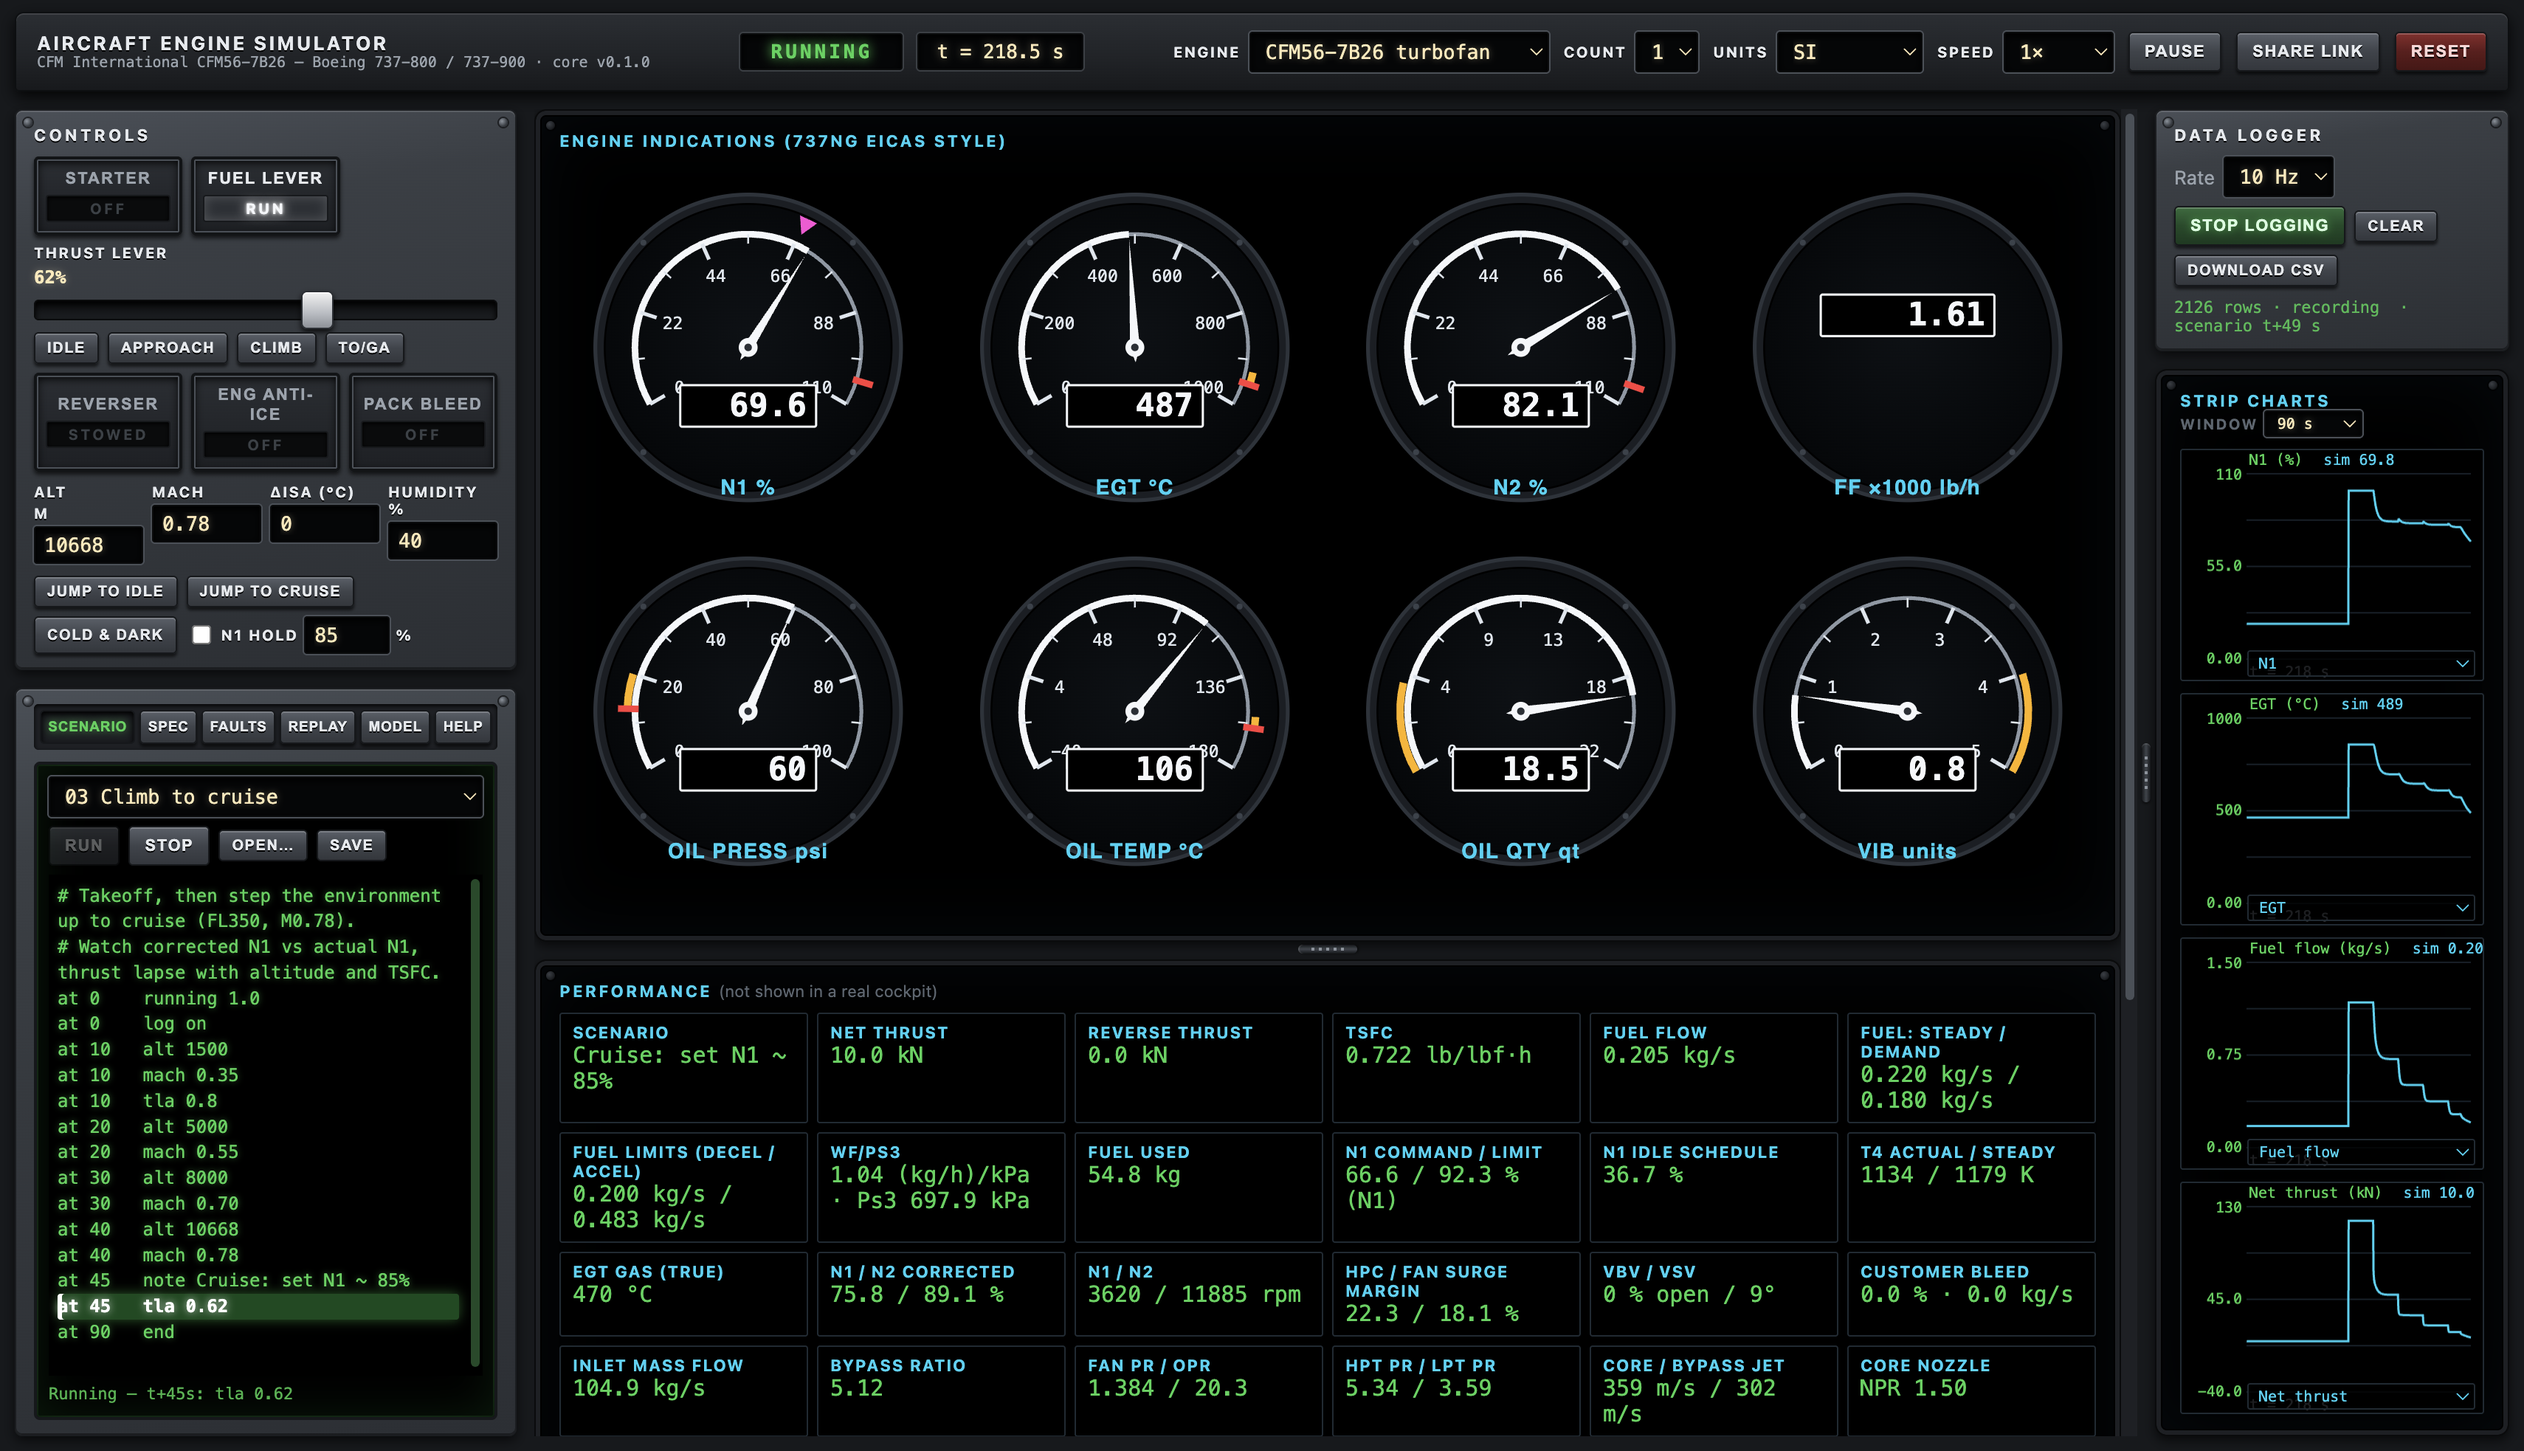
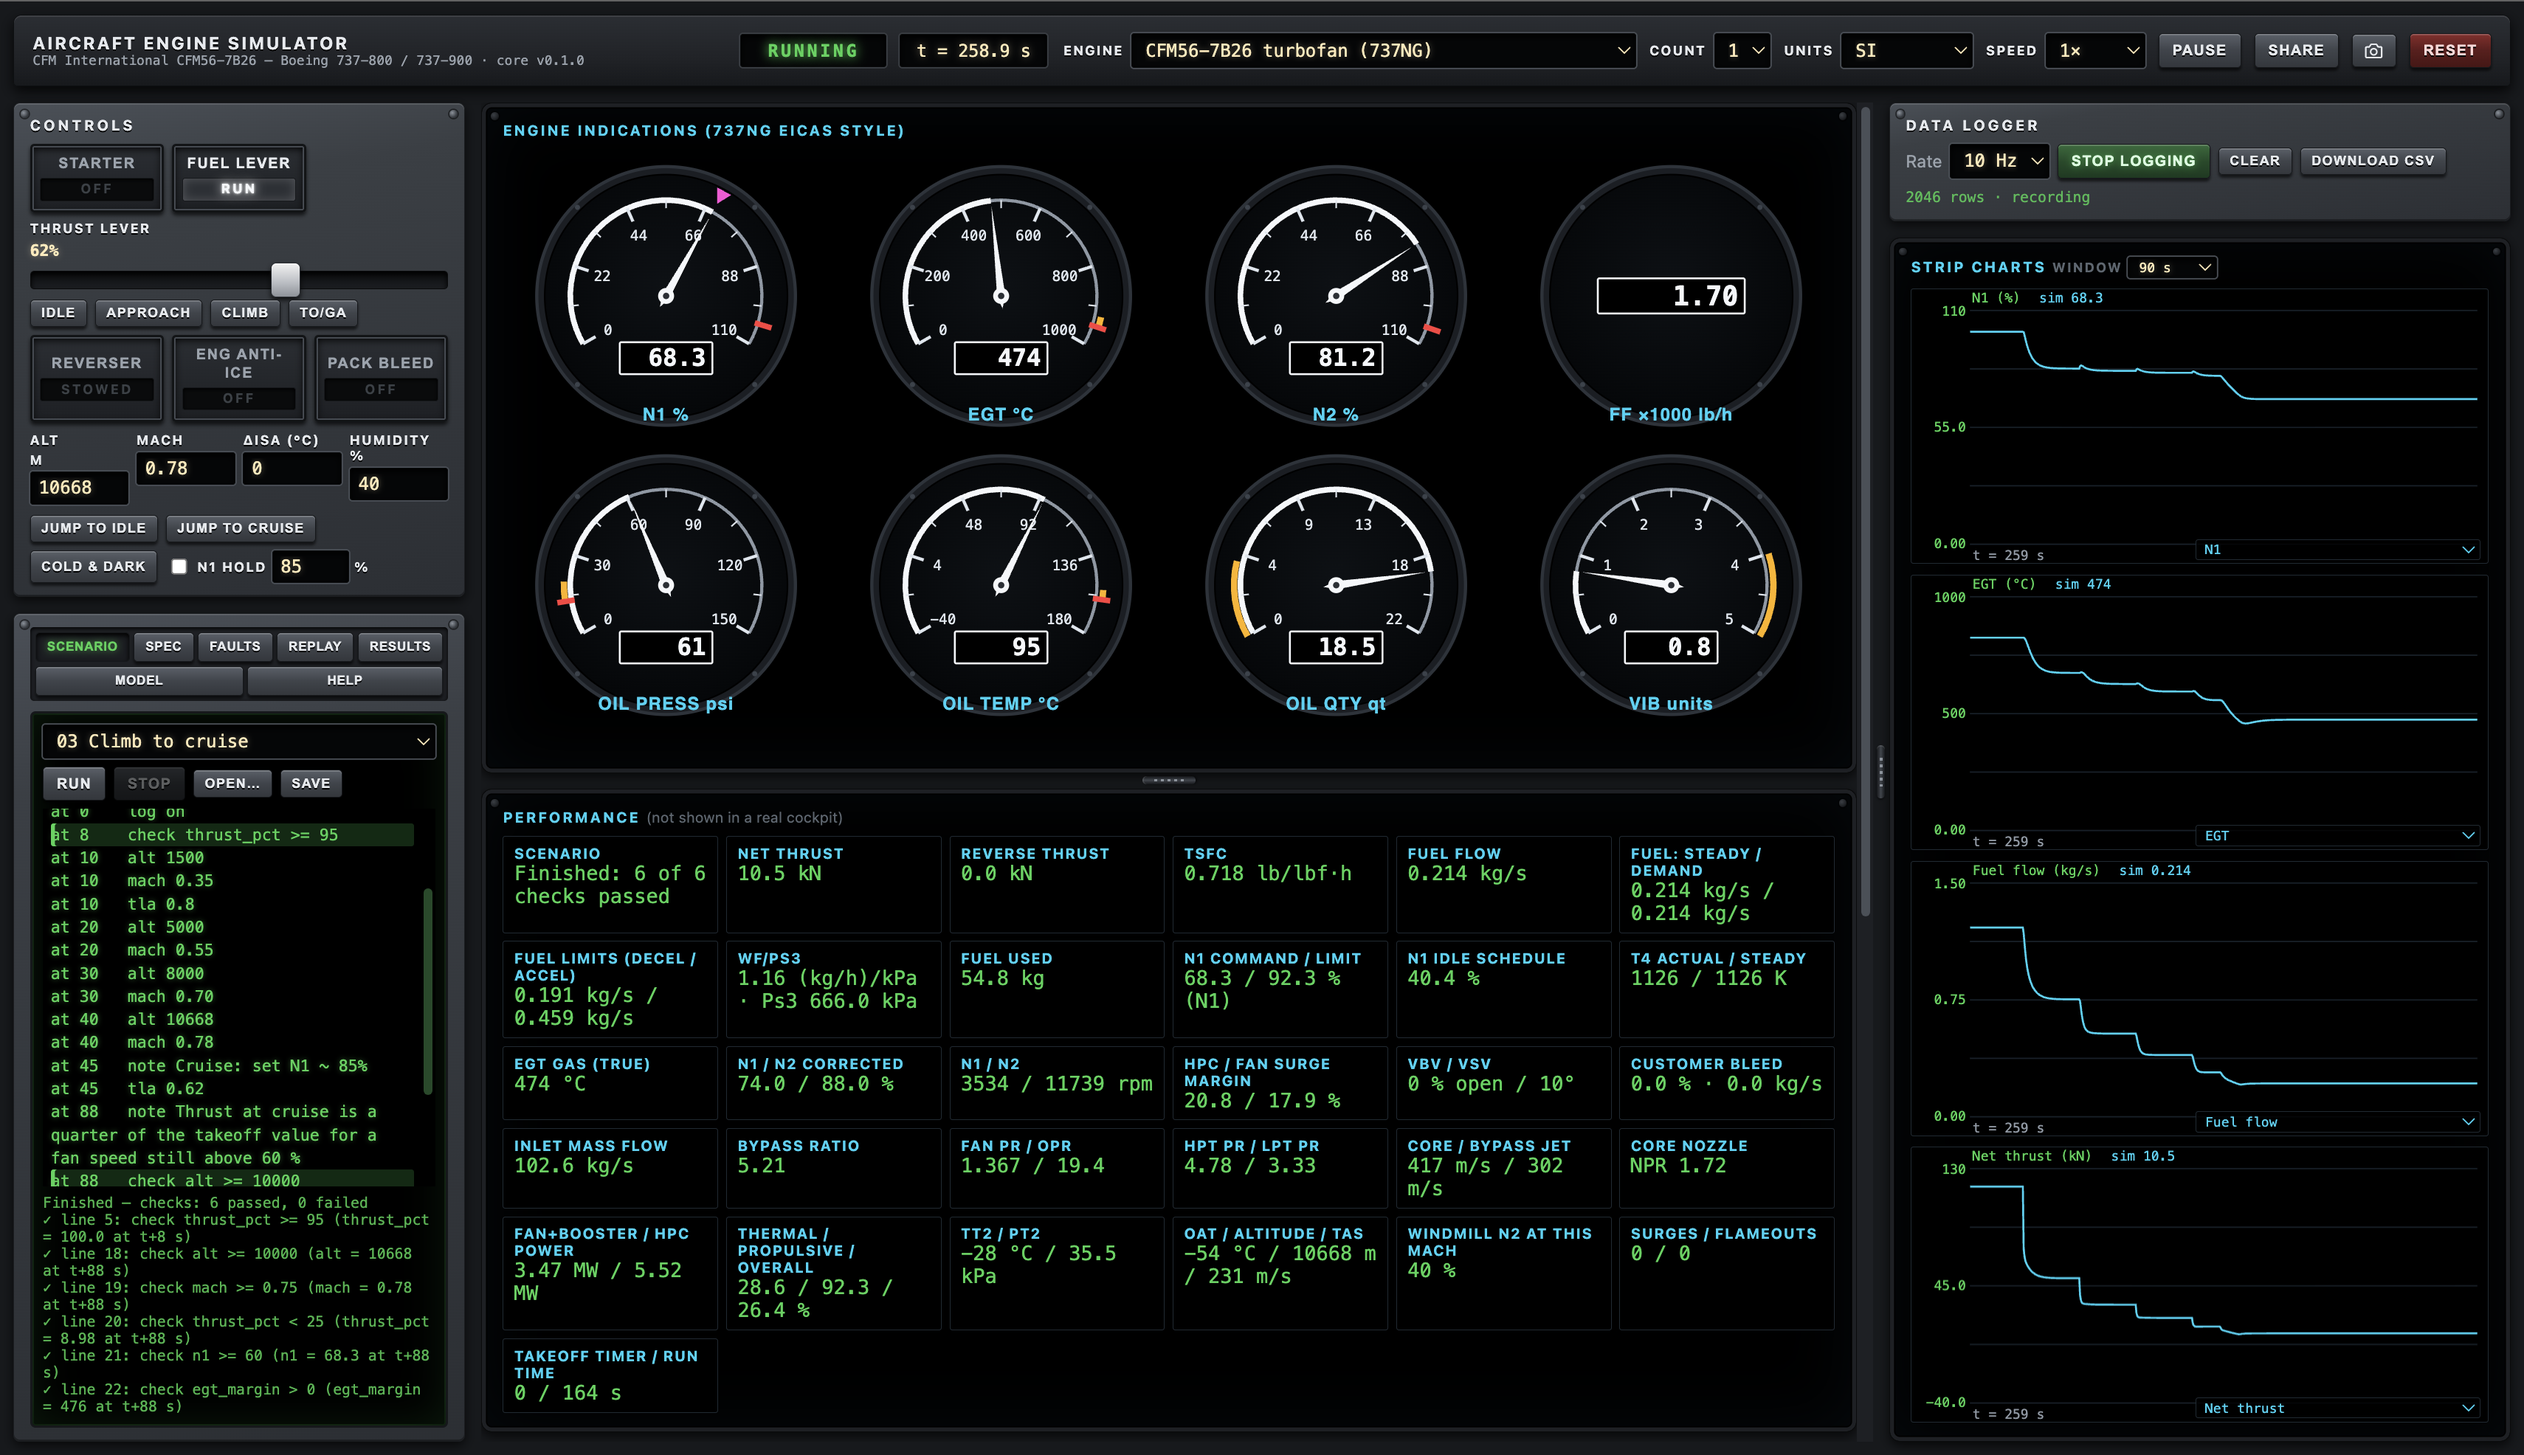
README: updated hero image and a second screenshot of the sweep and cycle stations

diff --git a/README.md b/README.md
@@ -3,7 +3,7 @@
 [![License: MIT](https://img.shields.io/badge/license-MIT-blue.svg)](LICENSE)
 [![Live](https://img.shields.io/badge/live-aircraftengine.fly.dev-4fc3f7.svg)](https://aircraftengine.fly.dev)
 
-![Aircraft Engine Simulator running the CFM56-7B26 at cruise in its 737 flight-deck theme: pedestal controls, the scenario CDU with the running line highlighted, 737NG-style engine indications, performance readouts and strip charts](docs/aircraft-engine.png)
+![Aircraft Engine Simulator running the CFM56-7B26 at cruise in its 737 flight-deck theme: pedestal controls, the scenario CDU with the climb-to-cruise lesson graded 6 of 6, 737NG-style engine indications, performance readouts and strip charts](docs/aircraft-engine.png)
 
 An educational IDE for aircraft engine simulation. The simulators are
 physics-based models built from the published specifications of real
@@ -284,6 +284,8 @@ on a settled copy of engine 1 (the running engines are untouched) and plots
 any signal against altitude, Mach, ISA deviation or lever position, with
 up to six values of a second variable as separate curves. Variables not
 swept stay at the current environment and lever. Results download as CSV.
+
+![The same session with the engine indications collapsed: the performance readouts, a parametric sweep of fuel flow against lever position for four altitudes, and the station-by-station cycle table with temperatures, pressures and flows from the freestream to both nozzles](docs/aircraft-engine2.png)
 
 Native tools without a browser:
 
